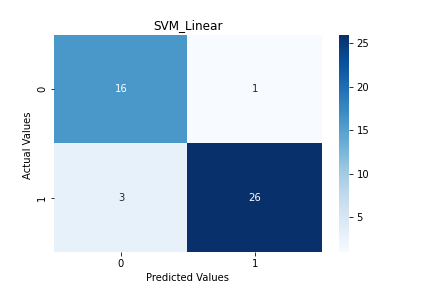
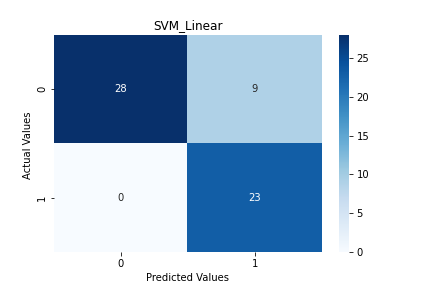
SVM Update

diff --git a/README.md b/README.md
@@ -126,7 +126,15 @@
     - Test Accuracy= 0.8666666666666667
 
     `python3 SVM.py --RBF SVM` 
-    - Train RBF F1_score= 0.9032258064516129 
-    - Train RBF Accuracy= 0.8695652173913043
-    - Test RBF F1_score= 0.8571428571428571 
-    - Test RBF Accuracy= 0.8666666666666667
+    -Test RBF Accuracy= 0.8333333333333334 
+    -Test Linear Accuracy= 0.85
+    -Test RBF F1_score= 0.8214285714285715
+    -Test Linear F1_score= 0.8363636363636363
+
+    `python3 SVM.ipynb --feat_reduction --plot_title `
+    - Four least contributing features: Temperature -> Ws -> BUI -> RH
+    - Drop (1,2,3,4) features
+    - Test F1-score RBF: (0.8214, 0.8214, 0.8214, 0.8070)
+    - Test Accuracy RBF: (0.8333, 0.8333, 0.8333, 0.8166)
+    - Test F1-score Linear: (0.83636, 0.83636, 0.83636, 0.8214)
+    - Test Accuracy Linear: (0.85, 0.85, 0.85, 0.8333)
